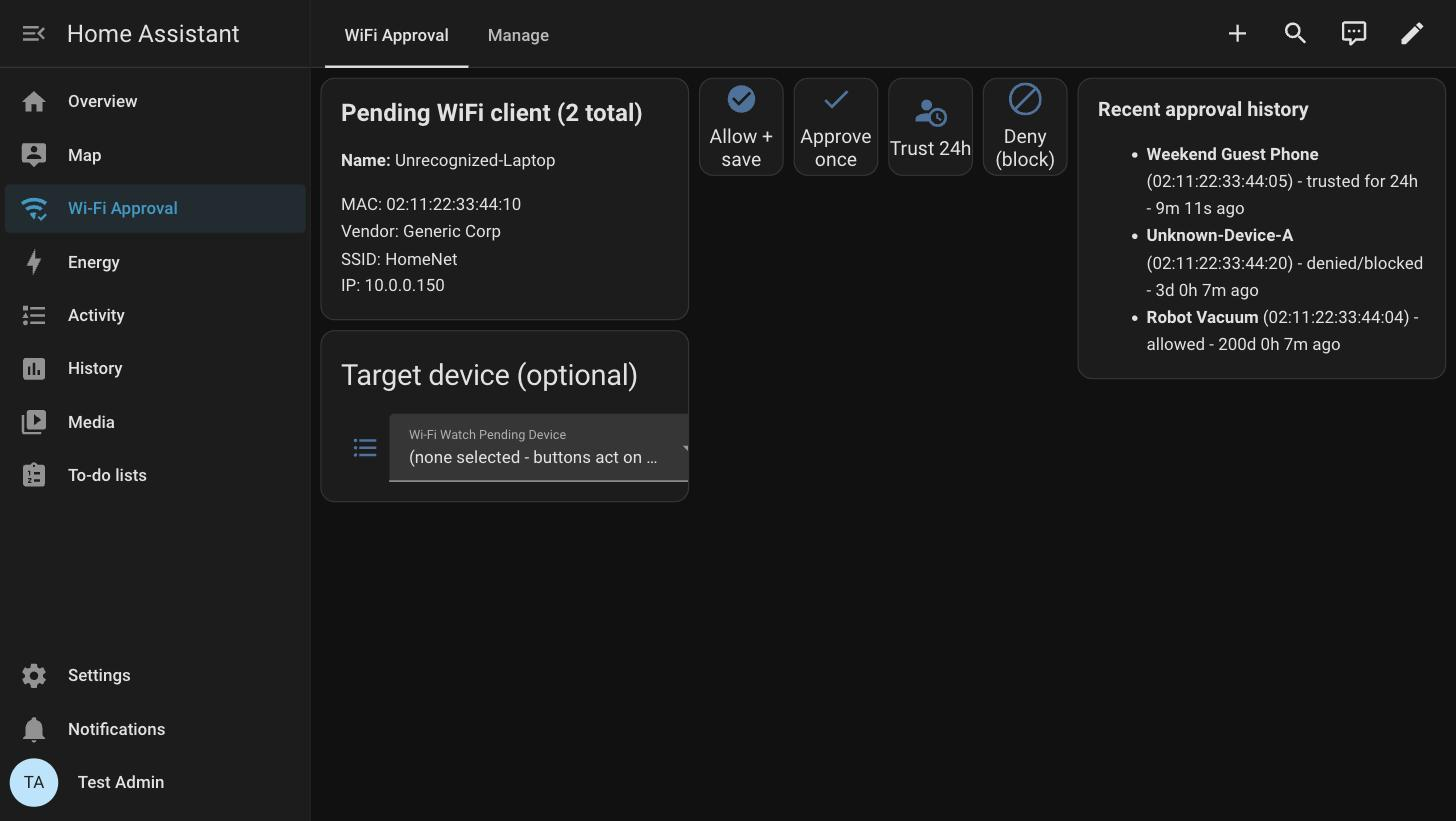
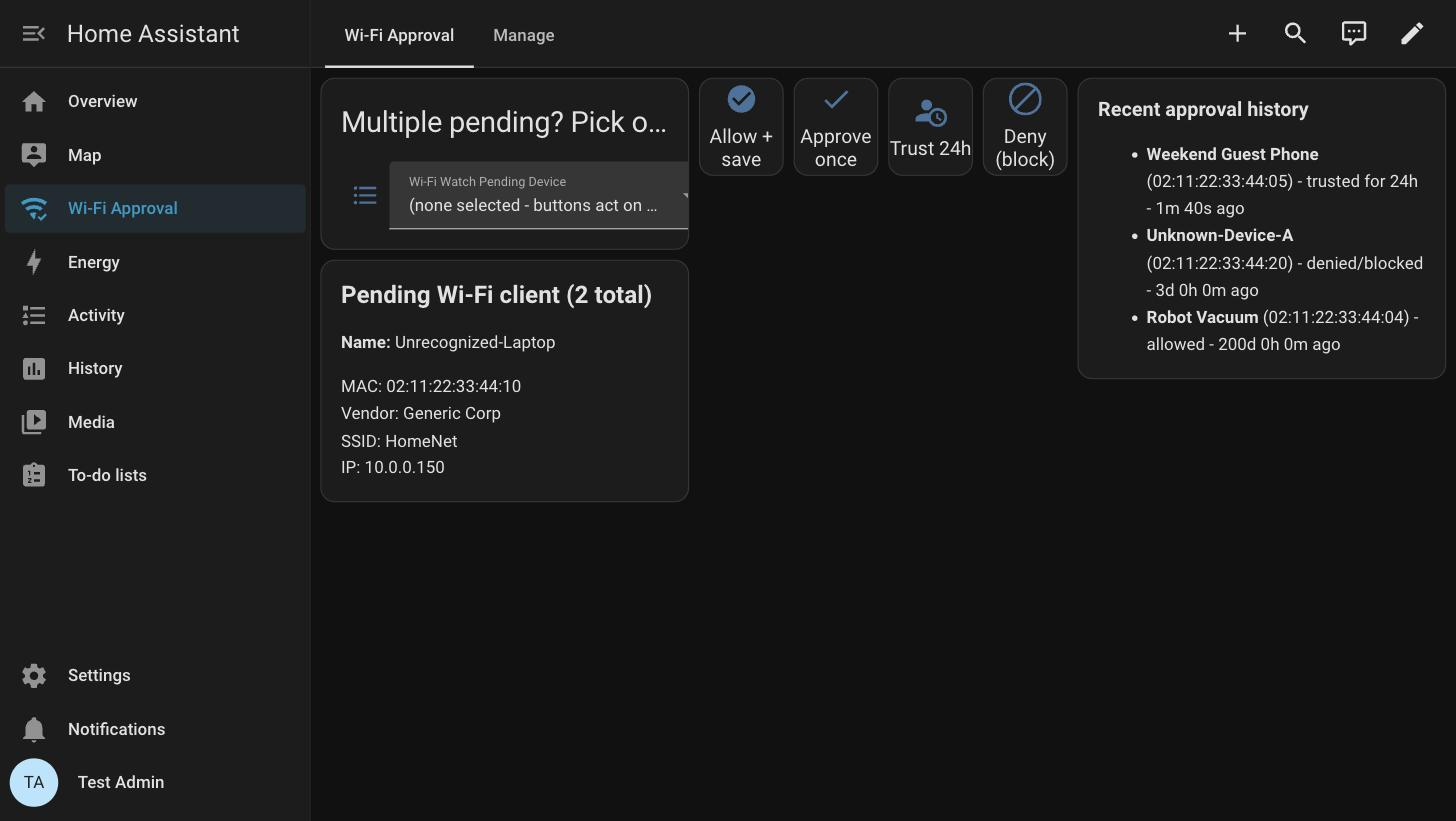
Fix multi-device dashboard UX, capitalize Wi-Fi consistently
The dashboard's info card always showed the oldest pending device
regardless of what was picked in the "Target device" select below it
- picking a second device changed which one the buttons acted on, but
the visible details never updated to match, which is exactly the
disconnect that made the multi-device flow feel broken. The card now
resolves the selected device (falling back to oldest when nothing's
picked) and its heading says "Selected" vs "Pending" accordingly.
Also reordered the cards so the picker comes first, matching the
natural pick-then-review flow instead of picker-below-details.

All user-facing "WiFi" text (README prose, the dashboard's own
labels, and the two push-notification strings in __init__.py) is now
"Wi-Fi" consistently - it was already correct in the entity/service
names, just inconsistent in display text.

Verified live end-to-end on the throwaway HA instance: selecting the
second of two pending devices updated the info card to show its own
name/MAC/vendor/IP, and pressing Allow + Save then acted on that
selected device (not the oldest), with the selector auto-resetting
after consumption - confirmed via the resulting history entry and
pending count.

diff --git a/custom_components/wifi_watch/__init__.py b/custom_components/wifi_watch/__init__.py
@@ -1,5 +1,5 @@
 """wifi-watch: get notified the moment an unrecognized device joins your
-WiFi, and approve or block it from an actionable phone notification.
+Wi-Fi, and approve or block it from an actionable phone notification.
 """
 from __future__ import annotations
 
@@ -104,7 +104,7 @@ async def async_setup_entry(hass: HomeAssistant, entry: ConfigEntry) -> bool:
                 ("Approve once", f"{ACTION_PREFIX}APPROVE::{token}"),
                 ("Deny (block)", f"{ACTION_PREFIX}DENY::{token}"),
             ]
-        message = f"New WiFi client: {name}\nMAC: {mac}{tag}{vendorline}{ssidline}\nIP: {ip}\n{status}"
+        message = f"New Wi-Fi client: {name}\nMAC: {mac}{tag}{vendorline}{ssidline}\nIP: {ip}\n{status}"
 
         # Bare legacy notify service names (e.g. "mobile_app_iphone"),
         # called directly - NOT the generic entity-based notify.send_message,
@@ -116,7 +116,7 @@ async def async_setup_entry(hass: HomeAssistant, entry: ConfigEntry) -> bool:
                 "notify",
                 target,
                 {
-                    "title": "New WiFi Client",
+                    "title": "New Wi-Fi Client",
                     "message": message,
                     "data": {"actions": [{"action": a, "title": t} for t, a in actions], "push": {"sound": "default"}},
                 },

diff --git a/README.md b/README.md
@@ -1,6 +1,6 @@
 # wifi-watch
 
-Get notified when an unrecognized device joins your WiFi, and approve,
+Get notified when an unrecognized device joins your Wi-Fi, and approve,
 approve-once, or block it from an actionable notification (within Home
 Assistant Companion on your phone, or Home Assistant itself).
 
@@ -62,7 +62,7 @@ it clears on its own once polling recovers.
 - Home Assistant 2026.1.0 or newer.
 - Home Assistant reachable from wherever you'll be tapping notification
   actions from — see External reachability below if that's not just "at
-  home on your own WiFi" for you.
+  home on your own Wi-Fi" for you.
 
 ## Install
 
@@ -181,7 +181,7 @@ device page), this repo ships one.
 
 ```yaml
 views:
-- title: WiFi Approval
+- title: Wi-Fi Approval
   path: '0'
   cards:
   - type: conditional
@@ -189,10 +189,24 @@ views:
     - entity: sensor.wi_fi_watch_pending_approvals
       state_not: '0'
     card:
+      type: entities
+      title: Multiple pending? Pick one (optional)
+      show_header_toggle: false
+      entities:
+      - entity: select.wi_fi_watch_pending_device
+  - type: conditional
+    conditions:
+    - entity: sensor.wi_fi_watch_pending_approvals
+      state_not: '0'
+    card:
       type: markdown
       content: >-
-        {% set p = (state_attr('sensor.wi_fi_watch_pending_approvals', 'pending') or [{}])[0] %}
-        ## Pending WiFi client ({{ states('sensor.wi_fi_watch_pending_approvals') }} total)
+        {%- set sel = states('select.wi_fi_watch_pending_device') -%}
+        {%- set pending_list = state_attr('sensor.wi_fi_watch_pending_approvals', 'pending') or [] -%}
+        {%- set sel_mac = sel.rsplit(' — ', 1)[-1] if sel not in ['(none selected - buttons act on oldest)', 'unknown', 'unavailable'] else none -%}
+        {%- set matches = (pending_list | selectattr('mac', 'eq', sel_mac) | list) if sel_mac else [] -%}
+        {%- set p = (matches[0] if matches else (pending_list[0] if pending_list else {})) -%}
+        ## {{ 'Selected' if matches else 'Pending' }} Wi-Fi client ({{ states('sensor.wi_fi_watch_pending_approvals') }} total)
 
 
         **Name:** {{ p.get('name') }}
@@ -206,16 +220,6 @@ views:
     card:
       type: markdown
       content: '## ✅ No pending requests'
-  - type: conditional
-    conditions:
-    - entity: sensor.wi_fi_watch_pending_approvals
-      state_not: '0'
-    card:
-      type: entities
-      title: Target device (optional)
-      show_header_toggle: false
-      entities:
-      - entity: select.wi_fi_watch_pending_device
   - type: conditional
     conditions:
     - entity: sensor.wi_fi_watch_pending_approvals
@@ -316,7 +320,7 @@ reachable from outside your home network — that leg is Home Assistant
 pushing out to Apple/Google's push service regardless. Acting on it
 (tapping a notification action button) does: the tap has to reach back to
 Home Assistant's API, which only works from outside your LAN if Home
-Assistant is externally reachable somehow. At home on your own WiFi this
+Assistant is externally reachable somehow. At home on your own Wi-Fi this
 isn't a factor either way. Options, easiest first:
 
 - **[Nabu Casa Cloud](https://www.nabucasa.com/)** — paid subscription,
